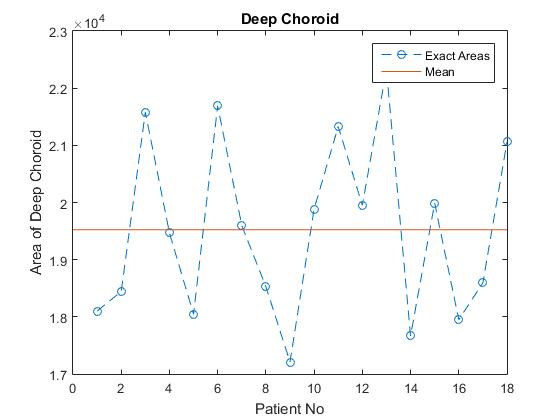
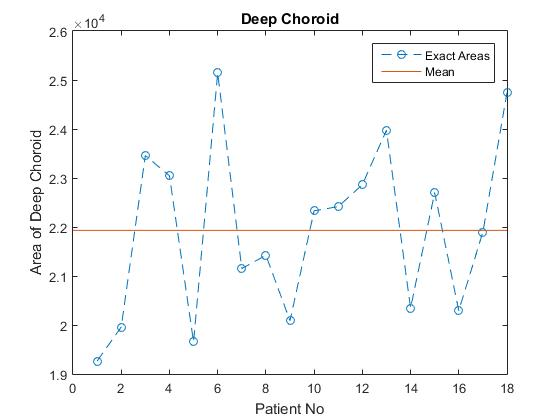
first blood

diff --git a/250/Deep_Retina.m b/250/Deep_Retina.m
@@ -1,15 +1,15 @@
-dataset = xlsread('Report_250.xlsx',1, 'B1:B18');
-y_axis = dataset(:,1);
-x_axis = (1 :18);
-p1 = plot (x_axis, y_axis,'--o');
+dataset = xlsread('Report_250.xlsx',1, 'B1:B18');           % Reading data from the Excel file.
+y_axis = dataset(:,1);                                      % Taking area as the y-axis
+x_axis = (1 :18);                                           % Taking patient no as the x-axis
+p1 = plot (x_axis, y_axis,'--o');                           % plot the graph between x-axis and y-axis
 hold on
-xlabel('Patient No')
-ylabel('Area of Deep Retina')
-title('Deep Retina');
+xlabel('Patient No')                                        %  Labelling x-axis as Patient No
+ylabel('Area of Deep Retina')                                % Labelling y-axis as area
+title('Deep Retina');                                       % Title of the plot is  Deep Retina
 s = sum(y_axis);
 % fprintf ('%f\n',s)
-mean = s/18; 
+mean = s/18;                                                % Calculating Mean
 fprintf ('Mean of all areas  = %f\n',mean)
-p2 = plot ([0,18],[mean,mean]);
+p2 = plot ([0,18],[mean,mean]);                             % Ploting the mean line in the plot
 hold off
-legend([p1 p2],'Exact Areas','Mean')
+legend([p1 p2],'Exact Areas','Mean')                        % Labels the different lines

diff --git a/250/Superficial_Choroid.m b/250/Superficial_Choroid.m
@@ -1,15 +1,15 @@
-dataset = xlsread('Report_250.xlsx',1, 'C1:C18');
-y_axis = dataset(:,1);
-x_axis = (1 :18);
-p1 = plot (x_axis, y_axis,'--o');
+dataset = xlsread('Report_250.xlsx',1, 'C1:C18');      % Reading data from the Excel file.
+y_axis = dataset(:,1);                                 % Taking area as the y-axis
+x_axis = (1 :18);                                       % Taking patient no as the x-axis
+p1 = plot (x_axis, y_axis,'--o');                       % plot the graph between x-axis and y-axis
 hold on
-xlabel('Patient No')
-ylabel('Area of Superficial Choroid')
-title('Superficial Choroid');
+xlabel('Patient No')                                    % Labelling x-axis as Patient No
+ylabel('Area of Superficial Choroid')                   % Labelling y-axis as area
+title('Superficial Choroid');                           % Title of the plot is  Superficial Choroid
 s = sum(y_axis);
 % fprintf ('Sum of all area =  %f\n',s)
-mean = s/18; 
+mean = s/18;                                        % Calculating Mean
 fprintf ('Mean of all areas  =  %f\n',mean)
-p2 = plot ([0,18],[mean,mean]);
+p2 = plot ([0,18],[mean,mean]);                      % Ploting the mean line in the plot
 hold off
-legend([p1 p2],'Exact Areas','Mean')
+legend([p1 p2],'Exact Areas','Mean')            % Labels the different lines

diff --git a/250/Deep_Choroid.m b/250/Deep_Choroid.m
@@ -1,18 +1,18 @@
-dataset = xlsread('Report_250.xlsx',1, 'D1:D18');
-y_axis = dataset(:,1);
-x_axis = (1 :18);
-p1 = plot (x_axis, y_axis, '--o');
+dataset = xlsread('Report_250.xlsx',1, 'D1:D18');     % Reading data from the Excel file.
+y_axis = dataset(:,1);                                % Taking area as the y-axis
+x_axis = (1 :18);                                       % Taking patient no as the x-axis
+p1 = plot (x_axis, y_axis, '--o');                      % plot the graph between x-axis and y-axis
 hold on
-xlabel('Patient No')
-ylabel('Area of Deep Choroid')
-title('Deep Choroid');
+xlabel('Patient No')                                    % Labelling x-axis as Patient No
+ylabel('Area of Deep Choroid')                          % Labelling y-axis as area
+title('Deep Choroid');                                  % Title of the plot is Deep Choroid
 s = sum(y_axis);
 % fprintf ('%f\n',s)
-mean = s/18; 
+mean = s/18;                                             % Calculating Mean
 fprintf ('Mean of all areas  = %f\n',mean)
-p2 = plot ([0,18],[mean,mean]);
+p2 = plot ([0,18],[mean,mean]);                         % Ploting the mean line in the plot
 hold off
-legend([p1 p2],'Exact Areas','Mean')
+legend([p1 p2],'Exact Areas','Mean')                        % Labels the different lines
 
 
 

diff --git a/250/Superficial_Retina.m b/250/Superficial_Retina.m
@@ -1,17 +1,16 @@
-dataset = xlsread('Report_250.xlsx',1, 'A1:A18');
-y_axis = dataset(:,1);
-x_axis = (1 :18);
-p1 = plot (x_axis, y_axis,'--o');
+dataset = xlsread('Report_250.xlsx',1, 'A1:A18');       % Reading data from the Excel file.
+y_axis = dataset(:,1);                              % Taking area as the y-axis
+x_axis = (1 :18);                                   % Taking patient no as the x-axis
+p1 = plot (x_axis, y_axis,'--o');                   % plot the graph between x-axis and y-axis
 hold on
-xlabel('Patient No')
-ylabel('Area of Superficial Retina')
-title('Superficial Retina');
+xlabel('Patient No')                                % Labelling x-axis as Patient No
+ylabel('Area of Superficial Retina')                 % Labelling y-axis as area
+title('Superficial Retina');                        % Title of the plot is  Superficial Retina
 s = sum(y_axis);
 % fprintf ('%f\n',s)
-mean = s/18; 
+mean = s/18;                                    % Calculating Mean
 fprintf ('Mean of all areas  = %f\n',mean)
-p2 = plot ([0,18],[mean,mean]);
+p2 = plot ([0,18],[mean,mean]);                  % Ploting the mean line in the plot
 hold off
-legend([p1 p2],'Exact Areas','Mean')
-
+legend([p1 p2],'Exact Areas','Mean')            % Labels the different lines
 

diff --git a/250/start_process_250.m b/250/start_process_250.m
@@ -1,15 +1,15 @@
 function start_process_250(files,folder)
 files = cellstr(files);
 for i = 1:length(files)
-fname =fullfile(folder,files{i});    
+fname =fullfile(folder,files{i});       %   returns full path to the files
 im_ab = imread(fname);
     
-if size(im_ab,1) ~= 250 && size(im_ab,2) ~= 250
-    im_ab = imresize((im_ab), [250 250]);
+if size(im_ab,1) ~= 320 && size(im_ab,2) ~= 320
+    im_ab = imresize((im_ab), [320 320]);
 end
 
 im_ab = rgb2gray(im_ab);
-
+im_ab = imcrop(im_ab,[160-125,160-125,250,250]);  %Taking a patch of 250x250 around image centre.
 binary = im2bw(im_ab);
 
 area(i) = bwarea(binary);
@@ -22,7 +22,7 @@ fprintf('\n');
 end
 
 
-z= xlsread('Report_250.xlsx');
+z= xlsread('Report_250.xlsx');              % Reading the excel file
 [m,n] = size(z);
 j = m + 1;
 k = num2str(m+1);
@@ -38,21 +38,8 @@ xlswrite('Report_250.xlsx',area(2),1,d);
 xlswrite('Report_250.xlsx',area(3),1,e);
 xlswrite('Report_250.xlsx',area(4),1,f);
 clear m,n,j,k;
-close;
+close;                                       % Close the document and write to disk
  
 
 end
-
-
-
-
-
-
-
-
-
-
-
-
-    
     

diff --git a/250/mactel_gui.m b/250/mactel_gui.m
@@ -97,8 +97,6 @@ global folder_ab;
 start_process_250(files_ab, folder_ab);
 
 
-
-
 % --- Executes on button press in pushbutton3.
 function pushbutton3_Callback(hObject, eventdata, handles)
 % hObject    handle to pushbutton3 (see GCBO)
